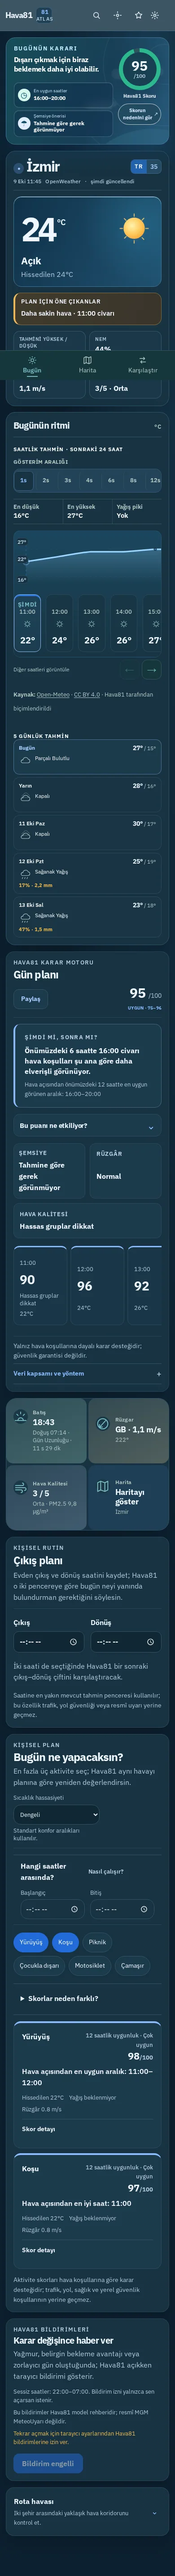
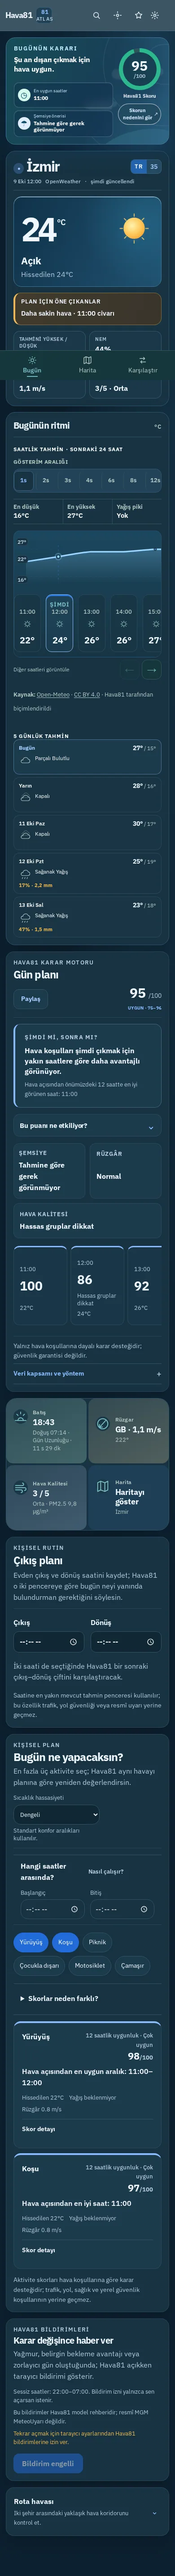
fix(ui): retain visible mobile scenery while protecting enlarged text

diff --git a/src/styles/VisualOverhaul.css b/src/styles/VisualOverhaul.css
@@ -269,7 +269,7 @@
       radial-gradient(ellipse at 98% 0%, rgb(45 157 172 / .26), transparent 57%),
       linear-gradient(114deg, #0a2a40, #164760 70%, #235f78);
   }
-  .app .decision-glance__atmosphere { width: 50%; opacity: .32; }
+  .app .decision-glance__atmosphere { width: 50%; opacity: .42; }
   .app .hava81-decision-field__current {
     background:
       radial-gradient(circle at 80% 24%, rgb(255 255 255 / .56), transparent 31%),
@@ -315,5 +315,13 @@
 @media (max-width: 24rem) {
   .app .hava81-decision-field__city {
     font-size: clamp(1.5rem, 8vw, 2rem);
+  }
+}
+
+/* At 200% enlarged text, atmospheric illustration must fade behind text.
+   Keep this after the mobile-art baseline so the container query wins. */
+@container (max-width: 18rem) {
+  .app .decision-glance__atmosphere {
+    opacity: .1;
   }
 }

diff --git a/docs/visual-reviews/README.md b/docs/visual-reviews/README.md
@@ -81,3 +81,16 @@ No production deployment or direct `main` modification is part of this branch.
 PR #1282 is merged and confirmed on `main`. This visual hierarchy follow-up is
 branched from its squash-merged commit `ef053bc` and should merge directly to `main`
 **only after** its own CI/CD, CodeQL, and deployment checks pass.
+
+## Full GitHub browser suite correction
+
+The first CI run on this PR (commit `4b6d13c`) passed the API,
+frontend-quality, Lighthouse, production-build and CodeQL jobs, but
+its browser suite reported a single existing responsive contract failure:
+the weather atmosphere had 0.32 opacity on normal-size mobile screens.
+The revised CSS uses 0.42 for standard mobile type and explicitly keeps
+0.1 opacity in a narrow container at 200% enlarged text. The targeted
+Playwright test for both 320px and 390px passed locally after the change.
+Five full-page screenshot variants were recaptured from the updated
+production preview, again with no page errors or horizontal overflow.
+Do not squash merge until the rerun GitHub browser suite is green.
